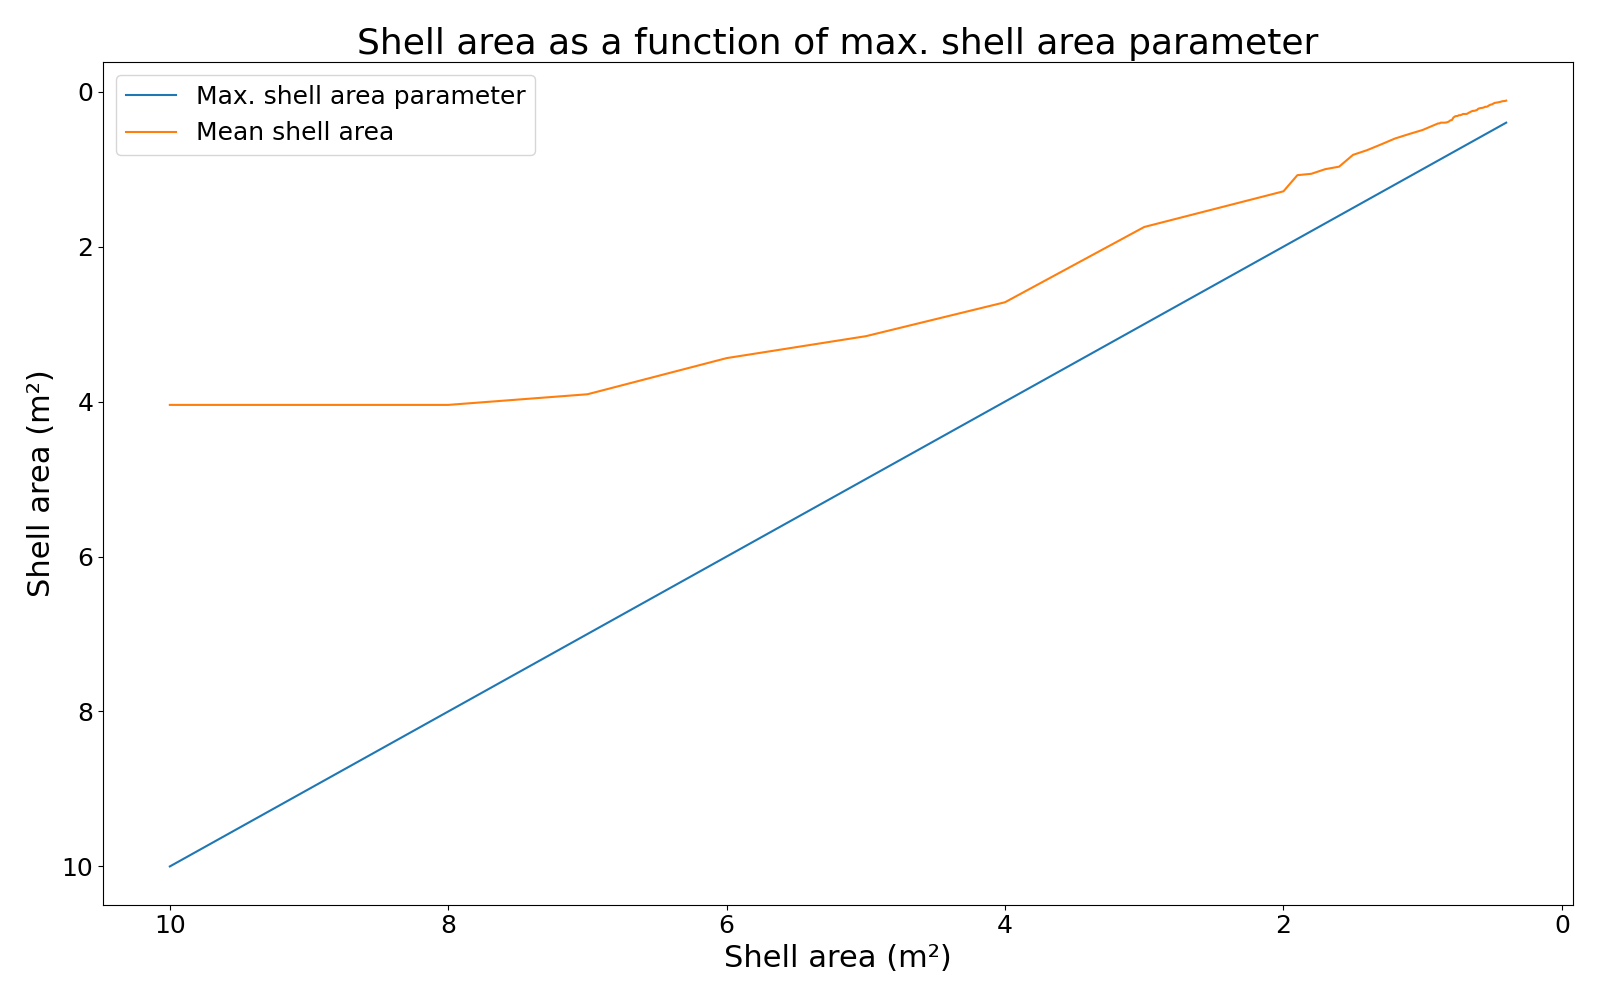
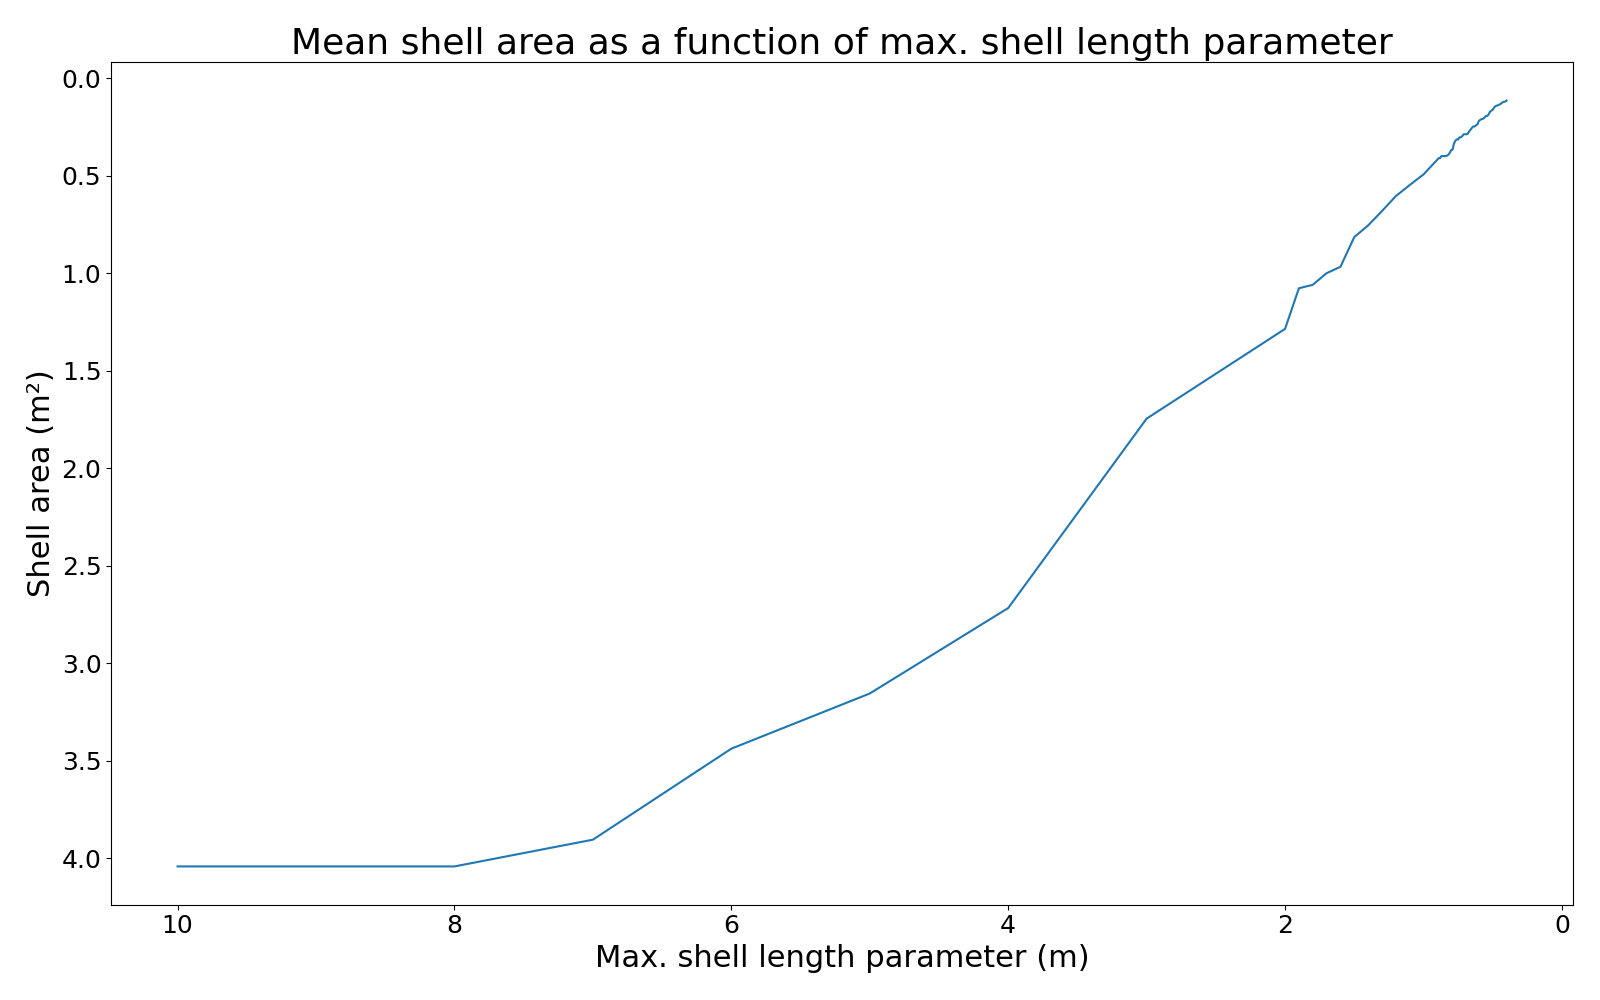
Images

diff --git a/code/make/plot/verification.py b/code/make/plot/verification.py
@@ -906,17 +906,48 @@ def plot_convergence(c: Config):
                 deck_shell_size,
                 pier_shell_size,
             ) = lines
-            plt.plot(max_mesh, max_mesh, label="Max. shell area parameter")
-            plt.plot(max_mesh, shell_size, label="Mean shell area")
+            # plt.plot(max_mesh, max_mesh, label="Max. shell length parameter")
+            plt.plot(max_mesh, shell_size)
         break
 
     plt.xlim(plt.xlim()[1], plt.xlim()[0])
     plt.ylim(plt.ylim()[1], plt.ylim()[0])
-    plt.title("Shell area as a function of max. shell area parameter")
-    plt.xlabel("Shell area (m²)")
+    plt.title("Mean shell area as a function of max. shell length parameter")
+    plt.xlabel("Max. shell length parameter (m)")
     plt.ylabel("Shell area (m²)")
-    plt.legend()
+    # plt.legend()
     plt.savefig(c.get_image_path("convergence", "model-size-param", bridge=False))
+    plt.close()
+
+    # This should be the same for each machine, so skip the rest.
+    for machine_name, loading_pos_dict in results.items():
+        for (x_load, z_load), lines in loading_pos_dict.items():
+            (
+                max_mesh,
+                mins_d,
+                maxes_d,
+                means_d,
+                mins_s,
+                maxes_s,
+                means_s,
+                time,
+                ndeck,
+                npier,
+                shell_size,
+                deck_shell_size,
+                pier_shell_size,
+            ) = lines
+            num_nodes = ndeck + npier
+            plt.plot(num_nodes, max_mesh)
+            plot_intersection(CHOSEN_NUM_NODES, num_nodes, max_mesh, units="Shell length (m)")
+        break
+
+    plt.ylim(plt.ylim()[1], plt.ylim()[0])
+    plt.title("Max. shell length parameter as a function of number of nodes")
+    plt.xlabel("Number of nodes")
+    plt.ylabel("Shell area (m)")
+    plt.legend()
+    plt.savefig(c.get_image_path("convergence", "chosen-param", bridge=False))
     plt.close()
 
     ###################################
